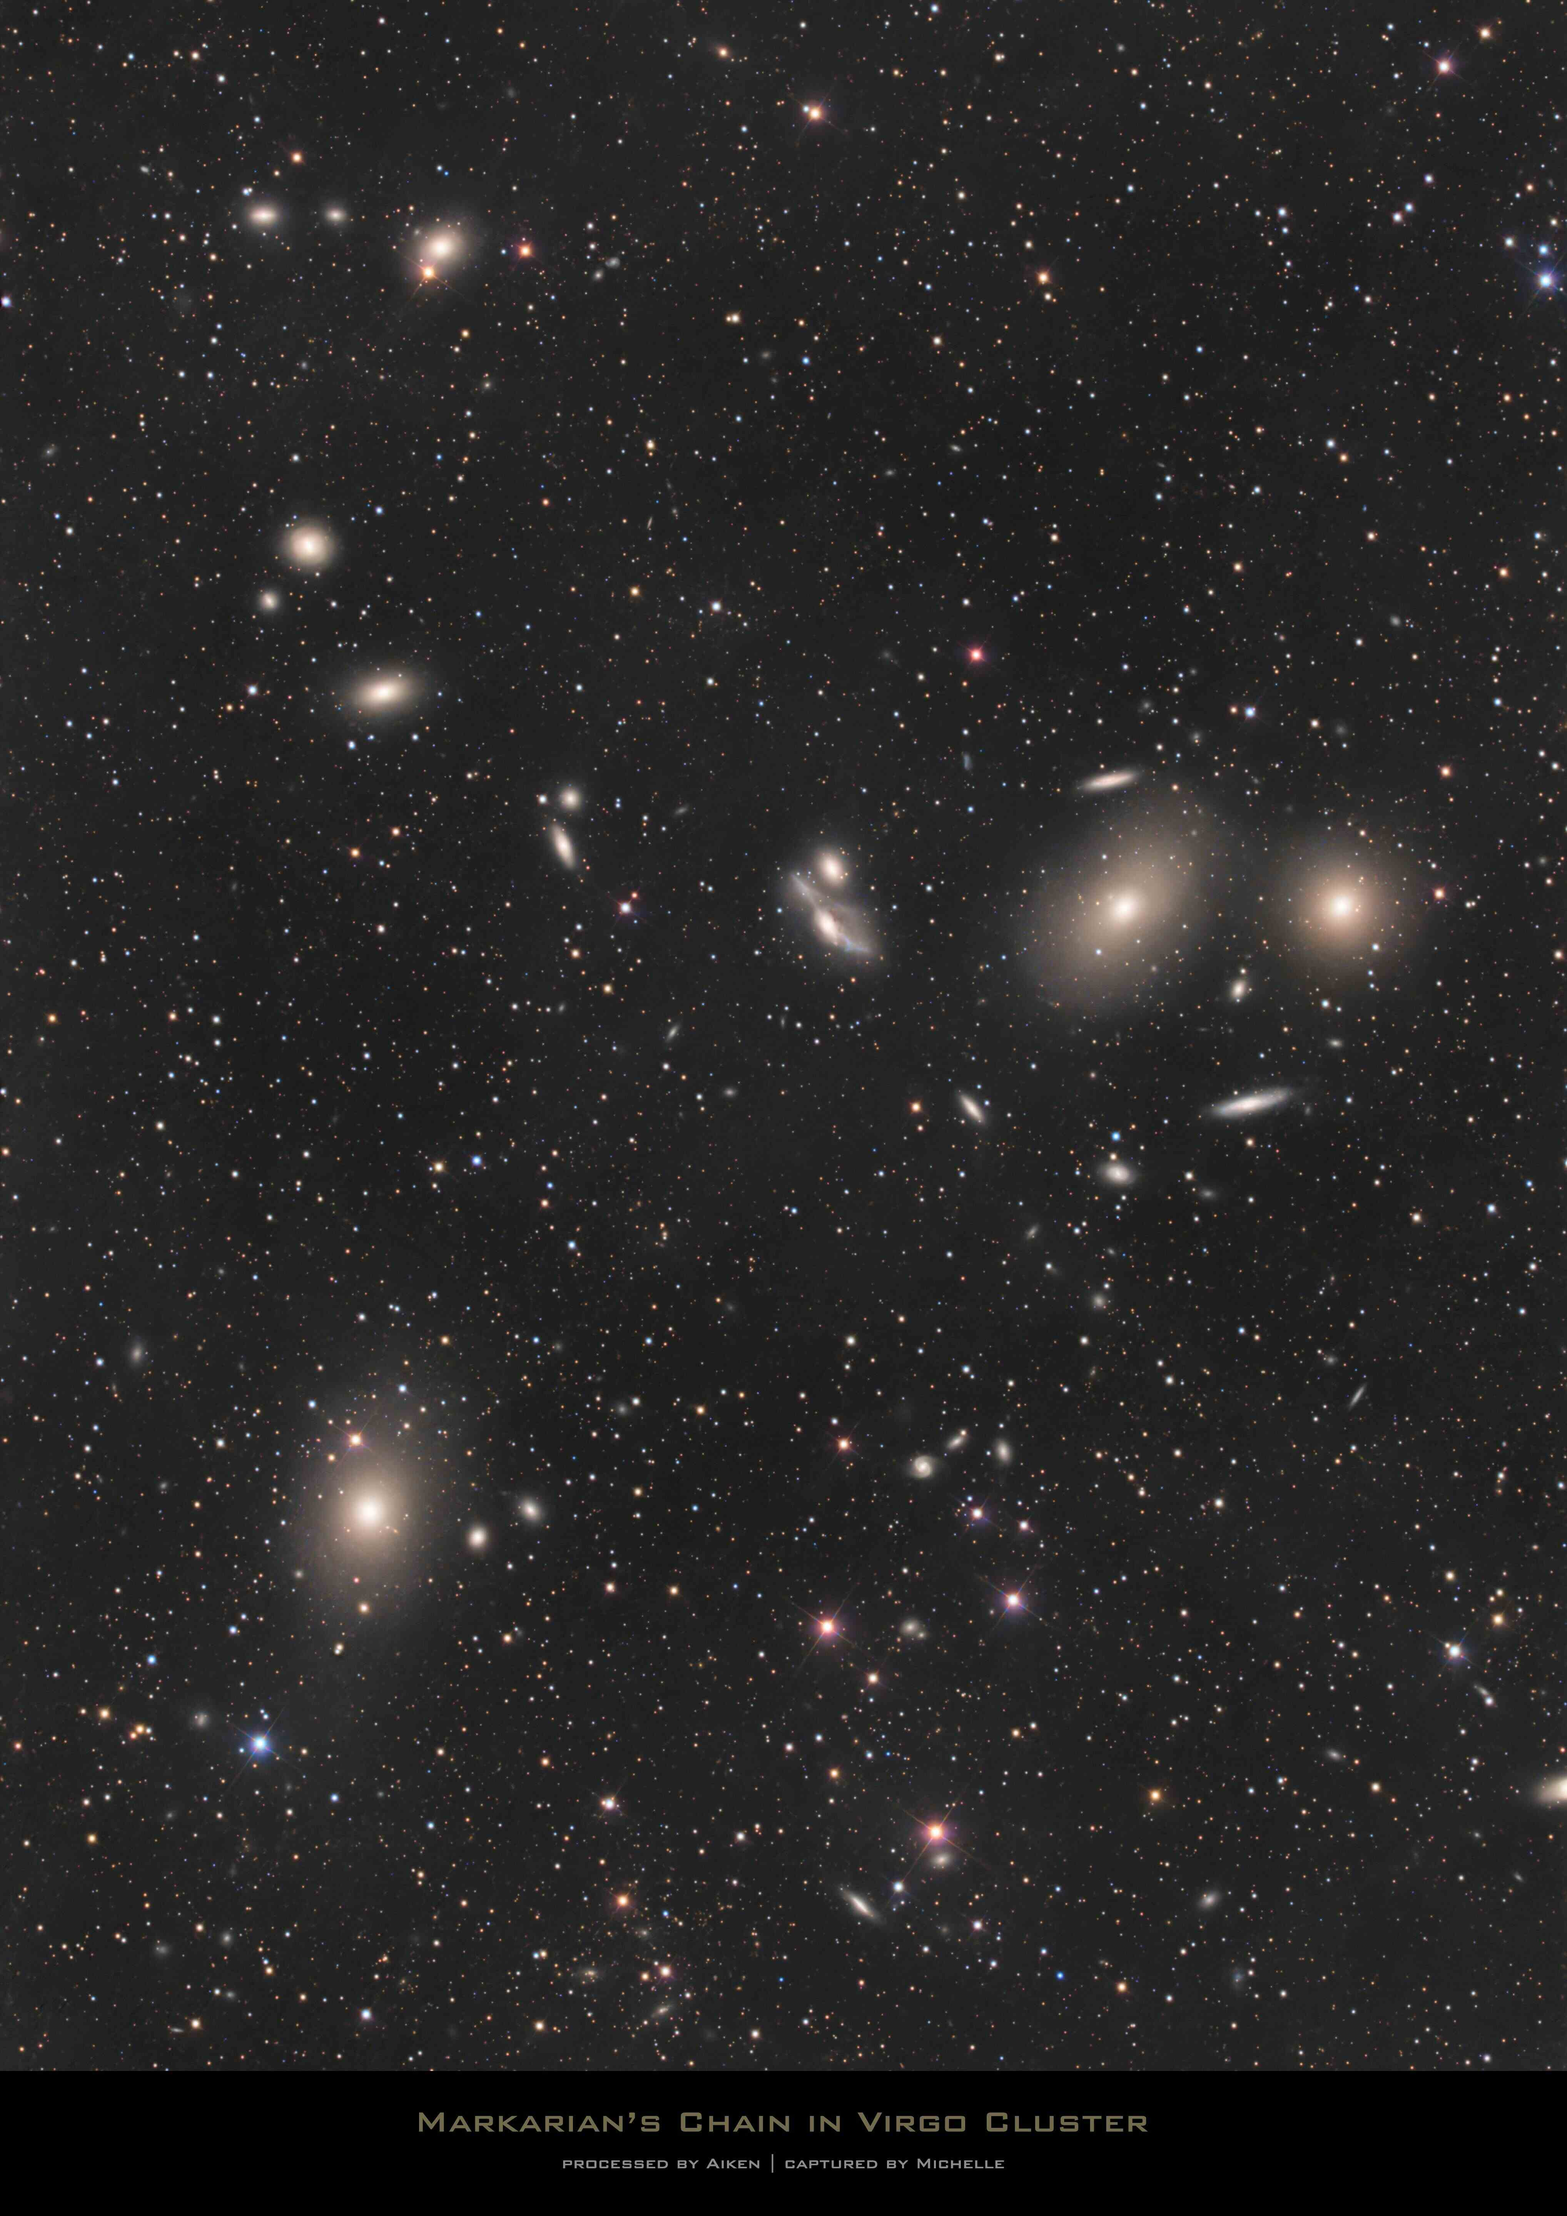
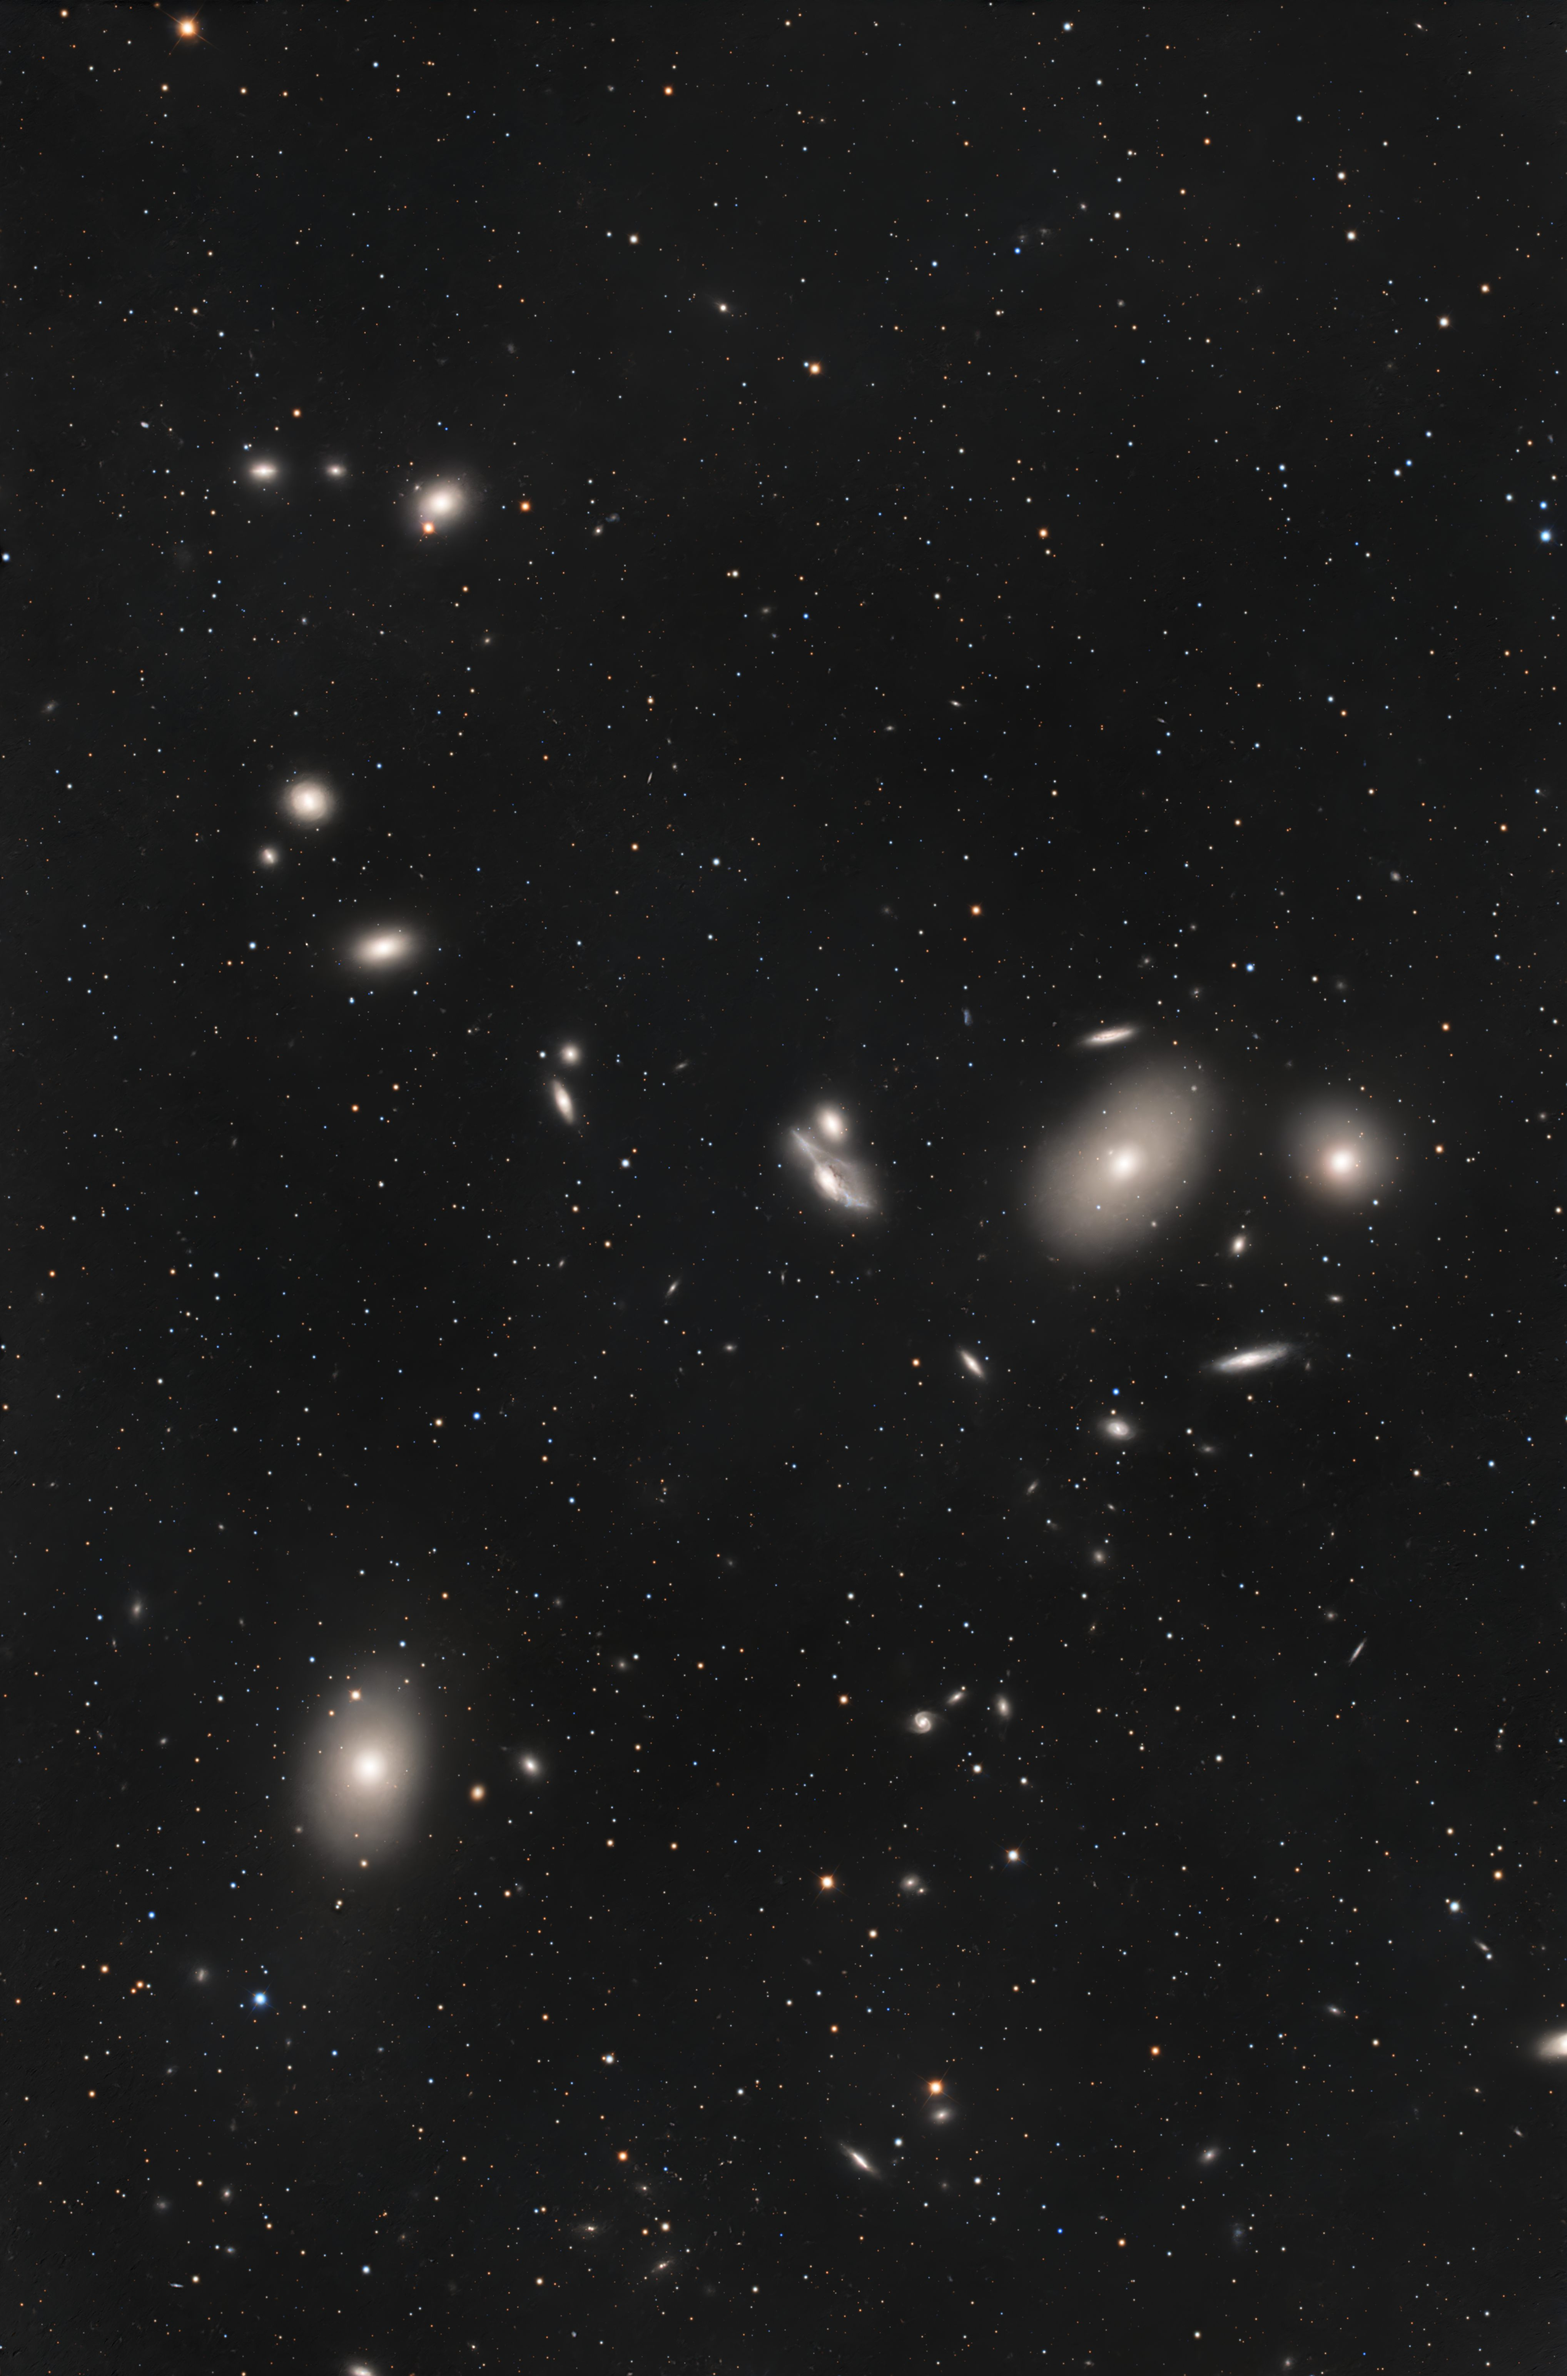
add more 84 86 87

diff --git a/data/gallery-data.js b/data/gallery-data.js
@@ -172,51 +172,72 @@ const photos = [
         tags: ['GALAXIES', 'MESSIER']
     },
     {
+        title: 'M84',
+        meta: 'Galaxy | Messier 84',
+        url: 'library/Messier catalog/M84.jpg',
+        sort: 7,
+        tags: ['GALAXIES', 'MESSIER']
+    },
+    {
+        title: 'M86',
+        meta: 'Galaxy | Messier 86',
+        url: 'library/Messier catalog/M86.jpg',
+        sort: 8,
+        tags: ['GALAXIES', 'MESSIER']
+    },
+    {
+        title: 'M87',
+        meta: 'Galaxy | Messier 87',
+        url: 'library/Messier catalog/M87.jpg',
+        sort: 9,
+        tags: ['GALAXIES', 'MESSIER']
+    },
+    {
         title: 'M101',
         meta: 'Pinwheel Galaxy | Messier 101',
         url: 'library/Messier catalog/M101.jpg',
-        sort: 7,
+        sort: 10,
         tags: ['GALAXIES', 'MESSIER']
     },
     {
         title: 'M104',
         meta: 'Sombrero Galaxy | Messier 104',
         url: 'library/Messier catalog/M104.jpg',
-        sort: 8,
+        sort: 11,
         tags: ['GALAXIES', 'MESSIER']
     },
     {
         title: 'M110',
         meta: 'Satellite Galaxy | Messier 110',
         url: 'library/Messier catalog/M110.jpg',
-        sort: 9,
+        sort: 12,
         tags: ['GALAXIES', 'MESSIER']
     },
     {
         title: 'Markarian Chain',
-        meta: 'M84 / M86 / M87 | Virgo Cluster | Messier target',
+        meta: 'M84 / M86 / M87 | Virgo Cluster',
         url: 'library/MarkarianChain.jpg',
-        sort: 10,
+        sort: 13,
         tags: ['GALAXIES']
     },
     {
         title: 'Leo Triplet',
-        meta: 'M65 / M66 / NGC 3628 | Leo Triplet',
-        url: 'library/Leo Triplet.jpg',
-        sort: 11,
+        meta: 'M65/M66/NGC 3628',
+        url: 'library/LeoTriplet.jpg',
+        sort: 14,
         tags: ['GALAXIES']
     },
     {
         title: 'C/2024 E3 Tsuchinshan',
         meta: 'Deep Sky | 2024-10-23',
-        url: 'library/C2024-E3-Tsuchinshan-2024-10-23-ed2.jpg',
+        url: 'library/C2024-E3-Tsuchinshan-2024-10-23.png',
         sort: 1,
         tags: ['COMETS']
     },
     {
         title: 'C/2022 E3 ZTF',
         meta: 'Deep Sky | 2023-01-18',
-        url: 'library/C2022E3_ZTF-2023-01-18_v2.jpg',
+        url: 'library/C2022E3_ZTF-2023-01-18.jpg',
         sort: 2,
         tags: ['COMETS']
     },

diff --git a/styles/gallery.css b/styles/gallery.css
@@ -10,7 +10,7 @@
 
 .gallery.gallery-messier {
     grid-template-columns: repeat(5, minmax(0, 1fr));
-    gap: 24px;
+    gap: 0;
 }
 
 .photo-card {
@@ -149,7 +149,7 @@
 
     .gallery.gallery-messier {
         grid-template-columns: 1fr;
-        gap: 40px;
+        gap: 0;
     }
 
     .photo-media {
@@ -163,11 +163,11 @@
     }
 
     .gallery.gallery-messier .photo-meta {
-        display: none;
+        display: none !important;
     }
 
     .gallery.gallery-messier .like-button {
-        display: none;
+        display: none !important;
     }
 
     .gallery.gallery-messier .photo-header {
